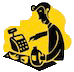
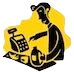
Minor changes

diff --git a/src/view/ManagerPanel.java b/src/view/ManagerPanel.java
@@ -33,13 +33,12 @@ import model.people.Supplier;
 public class ManagerPanel extends JFrame {
 
 	private JPanel contentPane, parentPanel, sideBarPanel, dashboardPanel, todaySalesPanel, productsPanel,
-			suppliersPanel, salesPanel, reportPanel, systemPanel, addProductPanel, addSupplierPanel, viewSupplier;
+			suppliersPanel, salesPanel, reportPanel, addProductPanel, addSupplierPanel, viewSupplier;
 	private JTextField productIdField, productNameField, productPriceField, supplierIDField, supplierPinField,
 			supplierFirstNameField, supplierLastNameField, companyNameField, contactNoField, emailField, locationField;
 
 	private AddProductController addProduct = new AddProductController(this);
 	private Supplier supplier;
-	private JFrame frame;
 	private JTable table;
 	private WelcomeScreen welcomeScreen;
 	private DefaultTableModel model;
@@ -64,22 +63,14 @@ public class ManagerPanel extends JFrame {
 		sideBarPanel();
 		dashboardPanel();
 		productsPanel();
-//		customersPanel();
 		salesPanel();
 		suppliersPanel();
 		reportPanel();
-//		employeesPanel();
-//		systemPanel();
 		addSupplier();
 		viewSupplier();
-
 		addProductPanel();
-//		removeProductPanel();
-//		modifyProductPanel();
-
 	}
-
-//
+	
 	private void sideBarPanel() {
 		sideBarPanel = new JPanel();
 		sideBarPanel.setBackground(Color.DARK_GRAY);
@@ -88,7 +79,7 @@ public class ManagerPanel extends JFrame {
 		sideBarPanel.setLayout(null);
 
 		JLabel lblNewLabel = new JLabel("", SwingConstants.CENTER);
-		lblNewLabel.setIcon(new ImageIcon(ManagerPanel.class.getResource("/images/Sef4.jpg")));
+		lblNewLabel.setIcon(new ImageIcon(ManagerPanel.class.getResource("/images/Sef4.png")));
 		lblNewLabel.setBounds(50, 28, 74, 72);
 		sideBarPanel.add(lblNewLabel);
 
